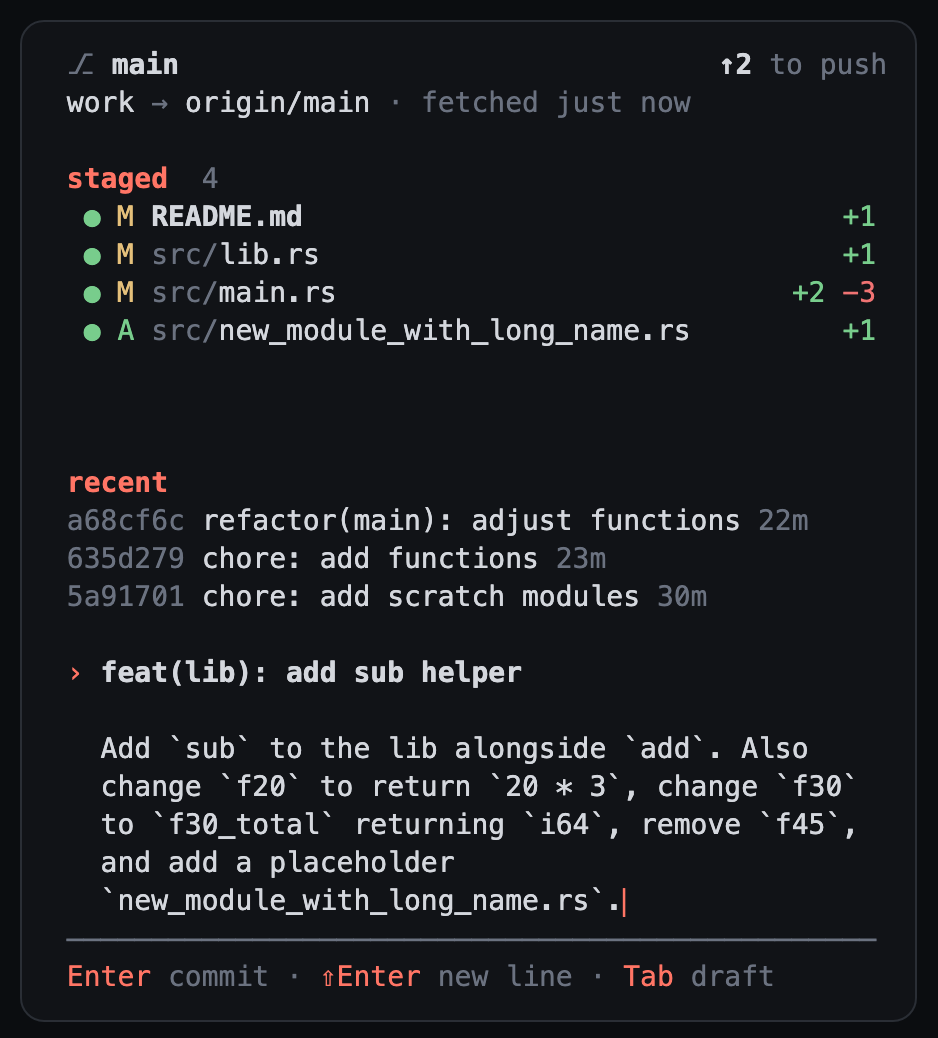
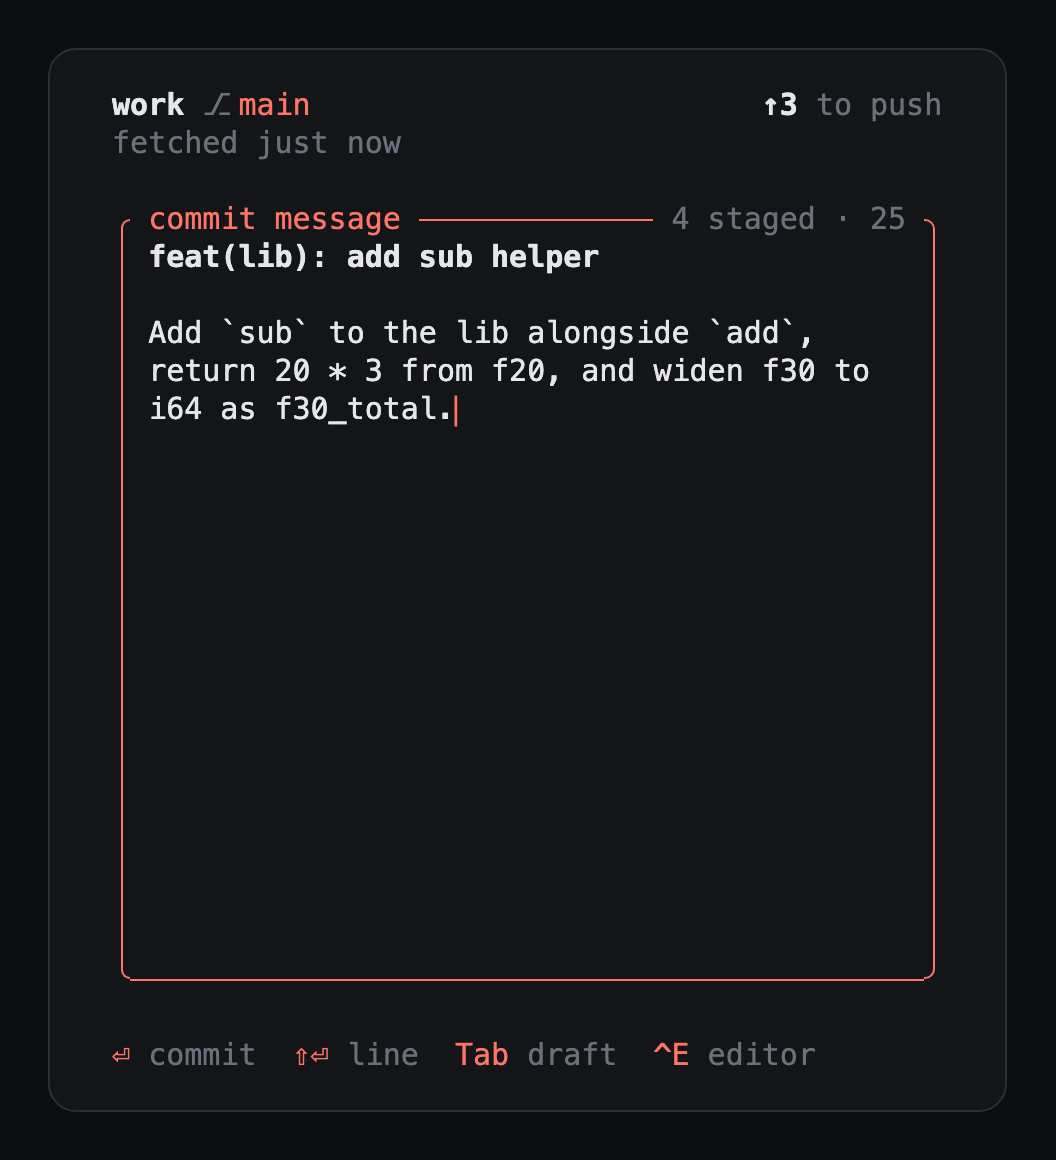
docs: walk through the features with new screenshots

diff --git a/README.md b/README.md
@@ -9,7 +9,7 @@ to your work.
 <p>
   <img src="docs/files.png" width="300" alt="The file list: staged, changed and untracked files with line counts">
   <img src="docs/diff.png" width="300" alt="A diff with line numbers, green and red line backgrounds, and the edited words highlighted">
-  <img src="docs/commit.png" width="300" alt="A commit message drafted by Claude in the commit box">
+  <img src="docs/commit.png" width="300" alt="A commit message being written in the commit box">
 </p>
 
 With Axel, it also opens by itself in every thread window, on that thread's workspace,
@@ -43,7 +43,76 @@ key.
 **Drafting commit messages** uses the [Claude Code](https://claude.com/claude-code) CLI,
 `claude`, with Haiku. Without it, everything else works.
 
+## A tour
+
+### Files
+
+<img src="docs/files.png" width="360" alt="The file list: staged, changed and untracked files with line counts, recent commits fading out, and the commit box">
+
+The header has the folder and branch, how far the branch is from its upstream, and
+when it last fetched. Click the sync state (`↑3 to push`, `✓ synced`…) to sync: it
+publishes a new branch, or fetches, pulls `--ff-only` and pushes.
+
+Files are grouped as staged, changed and untracked, with the lines each one adds and
+removes. `Space` or a click on `●` stages and unstages, `a` and `u` stage and unstage
+everything. Below them are the last three commits, the older ones fading out.
+
+The bottom line shows the keys that fit what you're doing, and clicking one presses it.
+
+### Diffs
+
+<img src="docs/diff.png" width="360" alt="A diff with line numbers, green and red line backgrounds, and the edited words highlighted">
+
+`Enter` or a click opens a file's diff. Added lines are on green, removed lines on red,
+and within an edited line the words that changed are brighter. Instead of `@@` hunk
+headers, every line has its number, and the lines left out between changes show as
+`⋯ 3 unchanged lines · fn f26()`, with the function they're in when git can tell.
+
+`n` and `N` move between files, `s` stages, and `e` shows more context (3, 10 or 30
+lines, as the hint says). `Esc` goes back.
+
+### Committing
+
+<img src="docs/commit.png" width="360" alt="A commit message being written in the commit box, with the staged count and subject length on its border">
+
+`c` opens the commit box, which takes the list's place while you write, with the staged
+count and the subject's length on its border (yellow past 50, red past 72). `Enter`
+commits, `Shift+Enter` adds a line, `Ctrl+E` opens the message in `$EDITOR`, and `↑`
+`↓` and the wheel scroll a long message.
+
+`Tab` asks Claude to draft the message, or to finish the one you started, keeping your
+words. When something is staged and the box is empty, `c` drafts one for you. With
+nothing staged, `Enter` asks first: `Enter` again stages everything and commits, `s`
+goes back to pick files.
+
+### Commit graph
+
+<img src="docs/graph.png" width="360" alt="The commit graph with colored lanes, a merged branch, branch and tag names, and commit ages">
+
+`g` shows the current branch's history with its lanes, branches and tags. `a` switches
+to every branch and tag, `r` refreshes, and `Esc` or `g` goes back.
+
+### Worktrees
+
+<img src="docs/worktrees.png" width="360" alt="The worktree list: each checkout's folder, branch, and how many files it changed">
+
+In a linked worktree, the header says which repo it belongs to (`worktree of work`).
+`w` lists every checkout of the repo with its branch and how many files it changed, and
+`Enter` or a click switches rex-git to it. A message you were writing waits in its
+worktree until you come back.
+
+### Errors
+
+<img src="docs/error.png" width="360" alt="A failed push's full git error in a box over the file list">
+
+Messages like `pushed 2 commits` fade after a few seconds. An error stays in place of
+the keys until your next key or click, and shows git's `fatal:` line rather than its
+closing advice. When there's more to it, `! more` says so, and `!` shows the last error
+in full. The fetch every 3 minutes fails quietly, as when you're offline.
+
 ## Keys
+
+Press `?` inside for this list.
 
 | Key | |
 |---|---|
@@ -54,31 +123,12 @@ key.
 | `c` | Write the commit message (drafted for you when something is staged) |
 | `Tab` | Draft a commit message with Claude |
 | `g` | Show the commit graph |
+| `w` | Switch to another worktree |
 | Click `✓ synced`, `↑2 to push`… | Sync: publish the branch, or fetch, pull `--ff-only` and push |
 | `p` / `P` / `f` | Push / pull `--ff-only` / fetch (it also fetches every 3 minutes) |
 | `t` | Stage the files from the agents' latest turn (with Axel) |
+| `!` | Show the last error in full |
 | `q` | Quit |
-
-The commit box sits under the file list. While you write, it takes the list's place, with
-the subject's length on its border; `↑` `↓` and the wheel scroll a long message. `Enter`
-commits, `Shift+Enter` adds a line, `Ctrl+E` opens the message in `$EDITOR`, and `Tab`
-asks Claude to draft the message, or to finish the one you started, keeping your words. With nothing
-staged, `Enter` asks first: `Enter` again stages everything and commits, `s` goes back
-to pick files.
-
-The bottom line shows the keys that fit what you're doing, and clicking one presses it.
-
-The commit graph shows the current branch, and `a` switches to every branch and tag. `Esc` or
-`g` goes back.
-
-In a diff, `n` and `N` move between files, `s` stages, `e` shows more context, and `Esc` goes back.
-
-## Diffs
-
-Added lines are on green, removed lines on red, and within an edited line the words that
-changed are brighter. Instead of `@@` hunk headers, every line has its number, and the
-lines left out between changes show as `⋯ 17 unchanged lines · fn parse()`, with the
-function they're in when git can tell.
 
 ## With Axel
 
